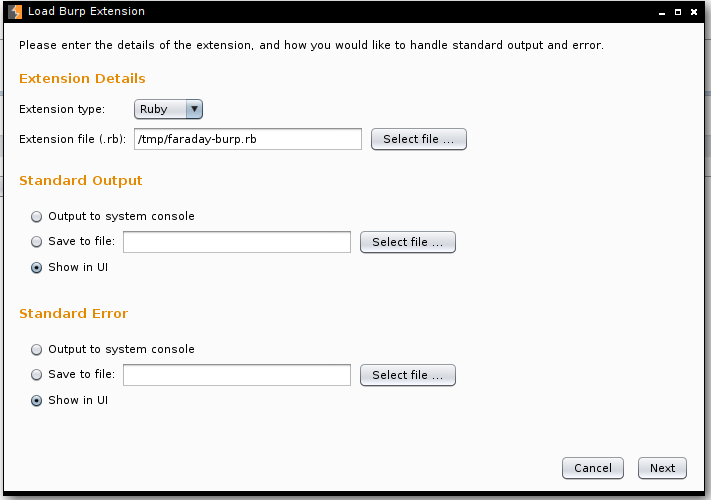
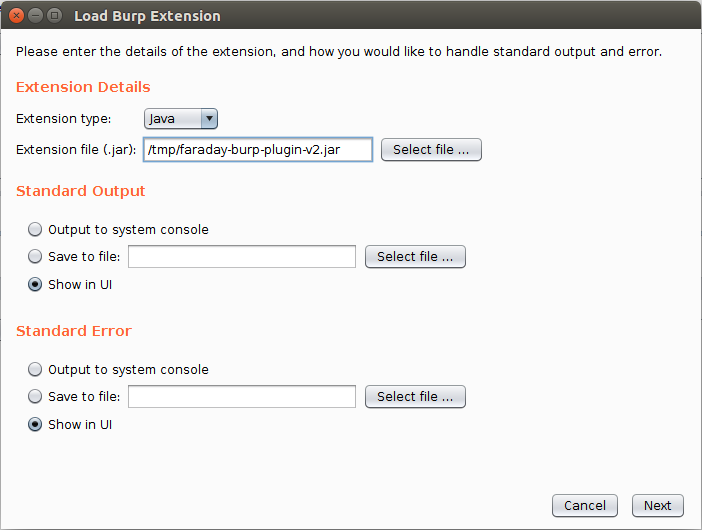
[MOD] Update Burp wiki

Changed region(s): [[0.0, 0.0, 1.0, 1.0], [0.4786, 0.45, 0.688, 0.51]]

diff --git a/Burp-proxy-extender.md b/Burp-proxy-extender.md
@@ -1,30 +1,20 @@
-This plugin is a script developed in JRuby as a extender to the Burp Proxy API (Pro/Community).
-
-[Download Link](https://github.com/infobyte/faraday/releases/download/v3.6.0/faraday-burp-plugin-v2.jar) 
-
-### Dependencies
-Get the last JRuby Version Complete [[http://www.jruby.org/download]]
-
-To load the ruby interpreter in burp, go to Extender->Options, and in the Ruby Environment section set the PATH of the jruby-complete.jar file.
-
-![](https://raw.github.com/wiki/infobyte/faraday/images/plugins/burp/ruby_path.png)
+This plugin is a script developed in Java as a extender to the Burp Proxy API (Pro/Community).
 
 ### Installation
-#### Burp PRO users
 
-You can find Faraday in the Burp App Store!
+To download Faraday's Burp extension, follow this [link](https://github.com/infobyte/faraday/releases/download/v3.6.0/faraday-burp-plugin-v2.jar)
 
-Go to Extender->BApp Store, and then install the Faraday extension. Then make sure the extension is loaded in the Extensions tab.
+Once you have downloaded the extension, follow these steps:
 
-![](https://raw.github.com/wiki/infobyte/faraday/images/plugins/burp/store.png)
+* Go to Extender->Extensions and click in the Add button.
 
-#### Burp Free users
-
-Go to Extender->Extensions and click in the Add button.
-
-In the Extension Details section, the extension type should be Ruby, and the extension file should be the path to the faraday-burp.rb file (it's in plugins/repo/burp/ folder). Click Next, and if everything went well, you should see no errors and you can close the window. Then make sure the extension is loaded in the Extensions tab.
+* In the Extension Details section, the extension type should be **Java**, and the extension file should be the path to the faraday-burp-plugin-v2.jar file that you downloaded above. 
 
 ![](https://raw.github.com/wiki/infobyte/faraday/images/plugins/burp/add_extension.png)
+
+* Click Next, and if everything went well, you should see no errors and you can close the window.
+
+* Now, make sure the extension is loaded in the Extensions tab.
 
 ![](https://raw.github.com/wiki/infobyte/faraday/images/plugins/burp/loaded.png)
 
@@ -34,19 +24,51 @@ Once the Faraday extension is loaded into your Burp, you will see a new tab call
 
 ![](https://raw.github.com/wiki/infobyte/faraday/images/plugins/burp/configuration.png)
 
-From there, you can:
+Here, you can login to Faraday and you can edit the extension's settings:
 
-1) Edit the RPC Server url. This should point to the RPC Server in your Faraday client (this is usually http://127.0.0.1:9876 unless you've changed it in your client's configuration).
+#### Login to Faraday
 
-2) Import the vulnerabilities you've found so far.
+In order to connect the Faraday's Burp extension to Faraday, follow these steps:
 
-3) Choose whether the vulnerabilities should be imported automatically or not (it's disabled by default).
+1) Set your Faraday Server URL. This should point to the same URL that you use when you are connecting to Faraday Server, e.g: http://127.0.0.1:5985
 
-4) Save and restore the Faraday extension's configuration.
+2) Connect Burp to Faraday by clicking on the **Connect** button.
+
+![](https://raw.github.com/wiki/infobyte/faraday/images/plugins/burp/configuration_connected.png)
+
+3) Once you are connected, type your Faraday's credentials: username, password and 2FA Token (if it is the case).
+
+4) Login into Faraday by click on the **Login** button. If everything goes well, Burp should pop up a _Login successful!_ modal. 
+
+![](https://raw.github.com/wiki/infobyte/faraday/images/plugins/burp/configuration_login_success.png)
+
+![](https://raw.github.com/wiki/infobyte/faraday/images/plugins/burp/configuration_logged_in.png)
+
+5) Once you are logged in, you can edit the extension's settings.
+
+#### Extension Settings
+
+![](https://raw.github.com/wiki/infobyte/faraday/images/plugins/burp/extension_settings.png)
+
+From here, you can:
+
+1) Choose the workspace where you want to work on.
+
+2) Choose whether the vulnerabilities should be imported automatically or not (it's disabled by default).
+
+3) Import the vulnerabilities you've found so far.
+
+4) Check if you want to use only Burp scope.
+
+#### Other Settings
+
+![](https://raw.github.com/wiki/infobyte/faraday/images/plugins/burp/other_settings.png)
+
+From here, you can Restore Settings to default.
 
 ### Send to Faraday
 
-Also, we've added the possibility to send the issues and requests to Faraday with a new option in the context menu
+Once you have everything setup, you can send the issues or requests to Faraday.
 
 ![](https://raw.github.com/wiki/infobyte/faraday/images/plugins/burp/send_to.png)
 
